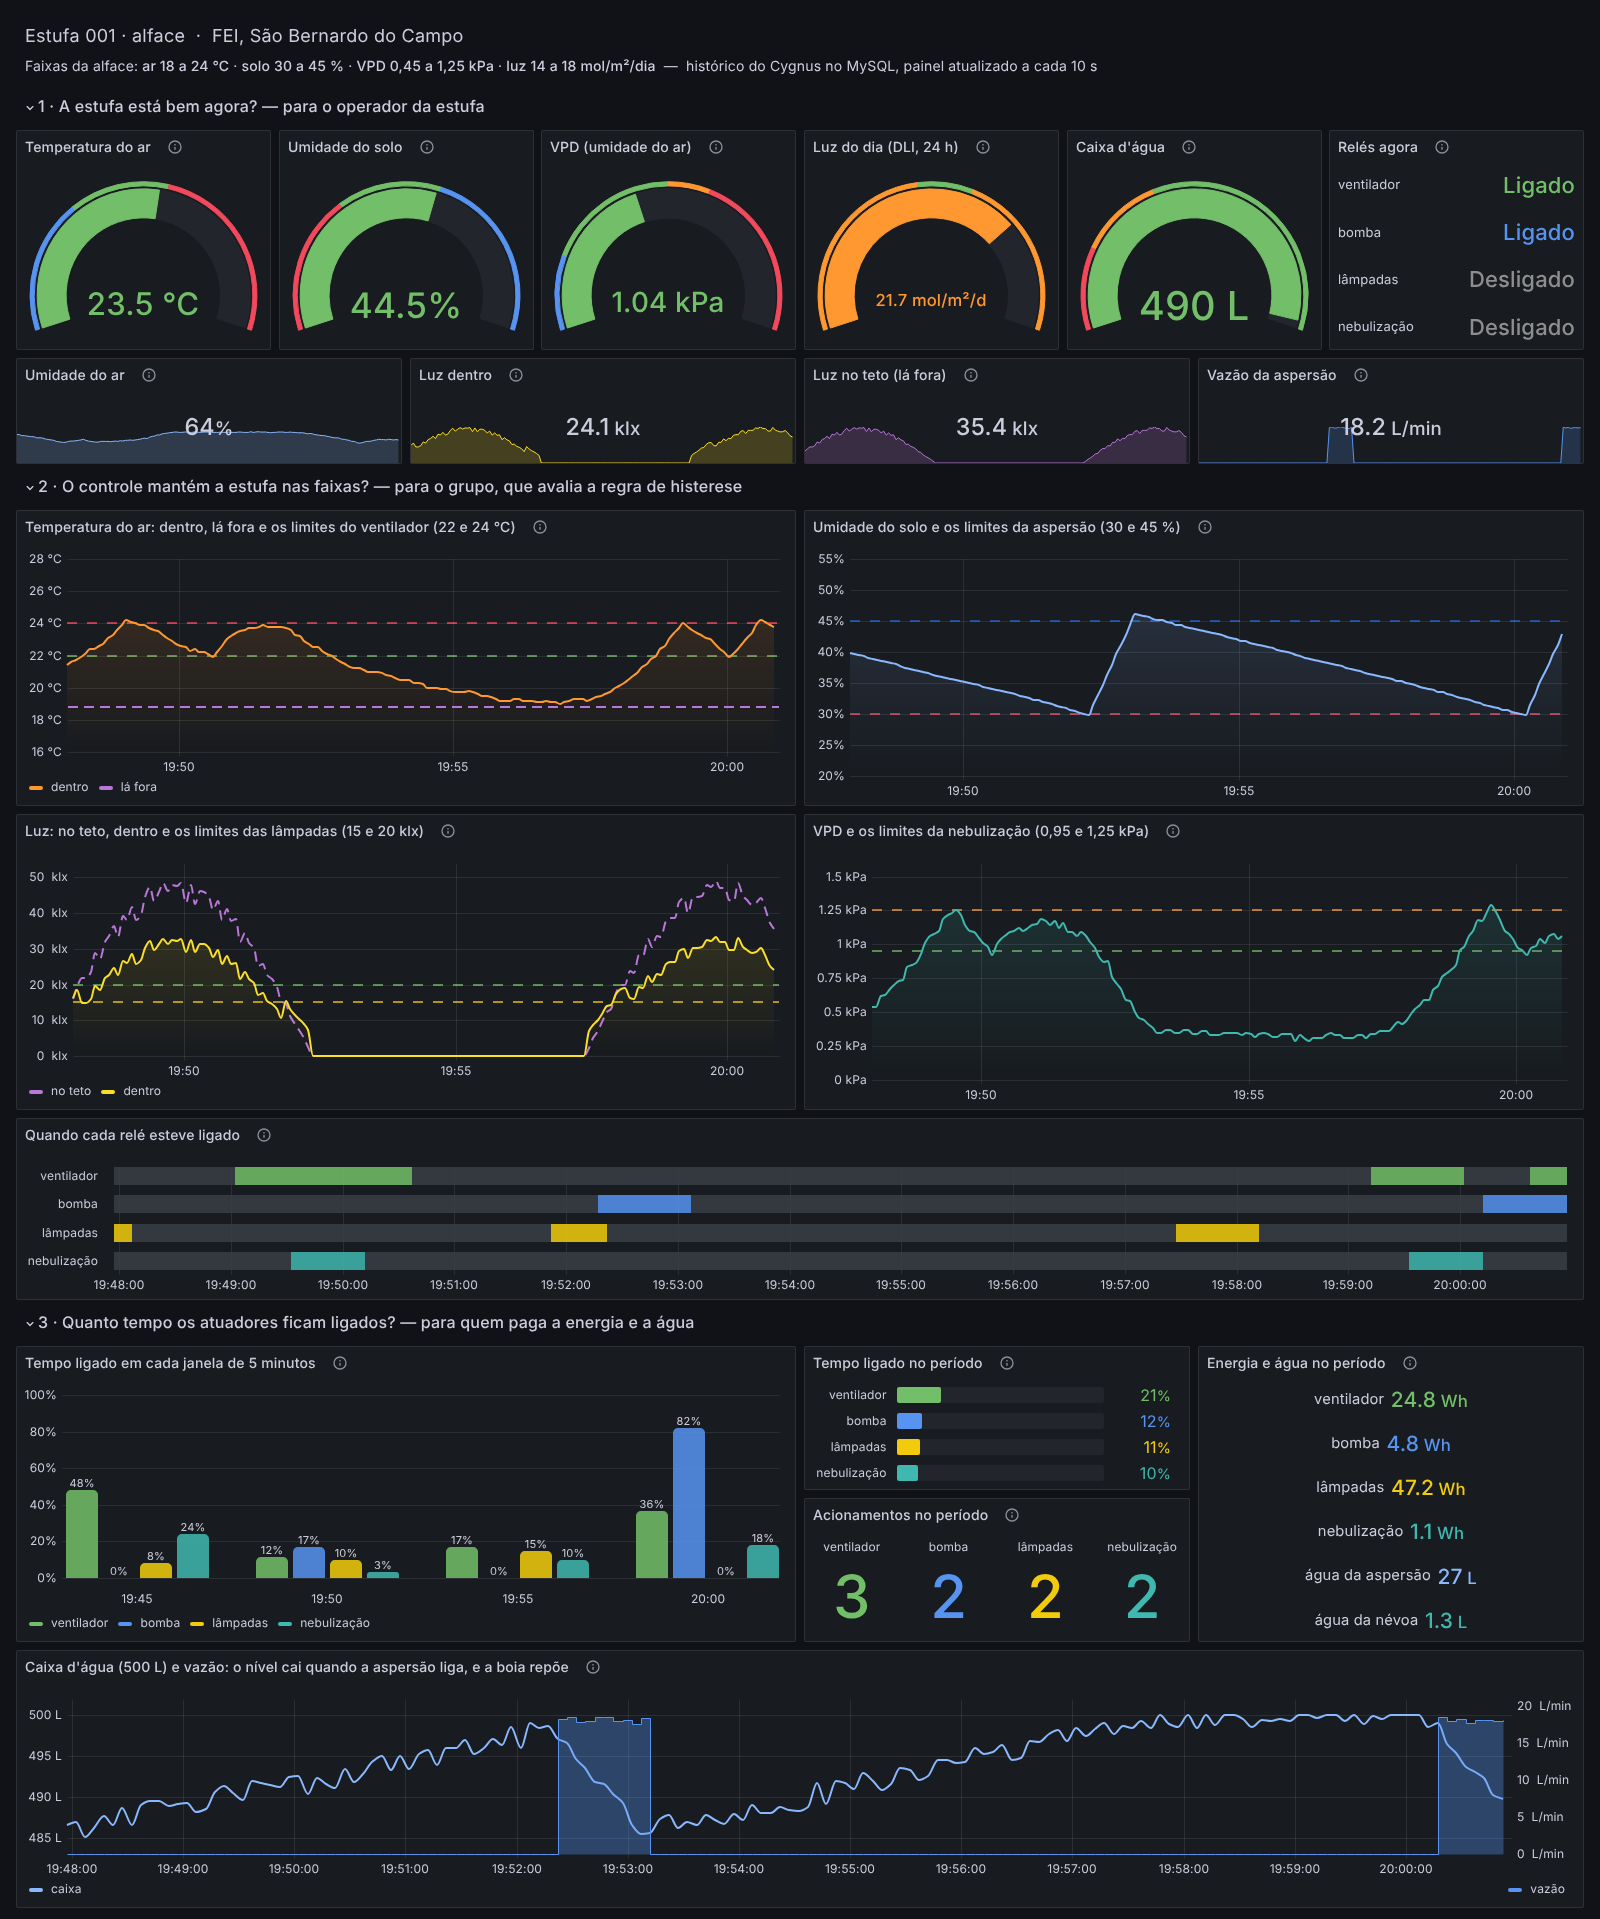
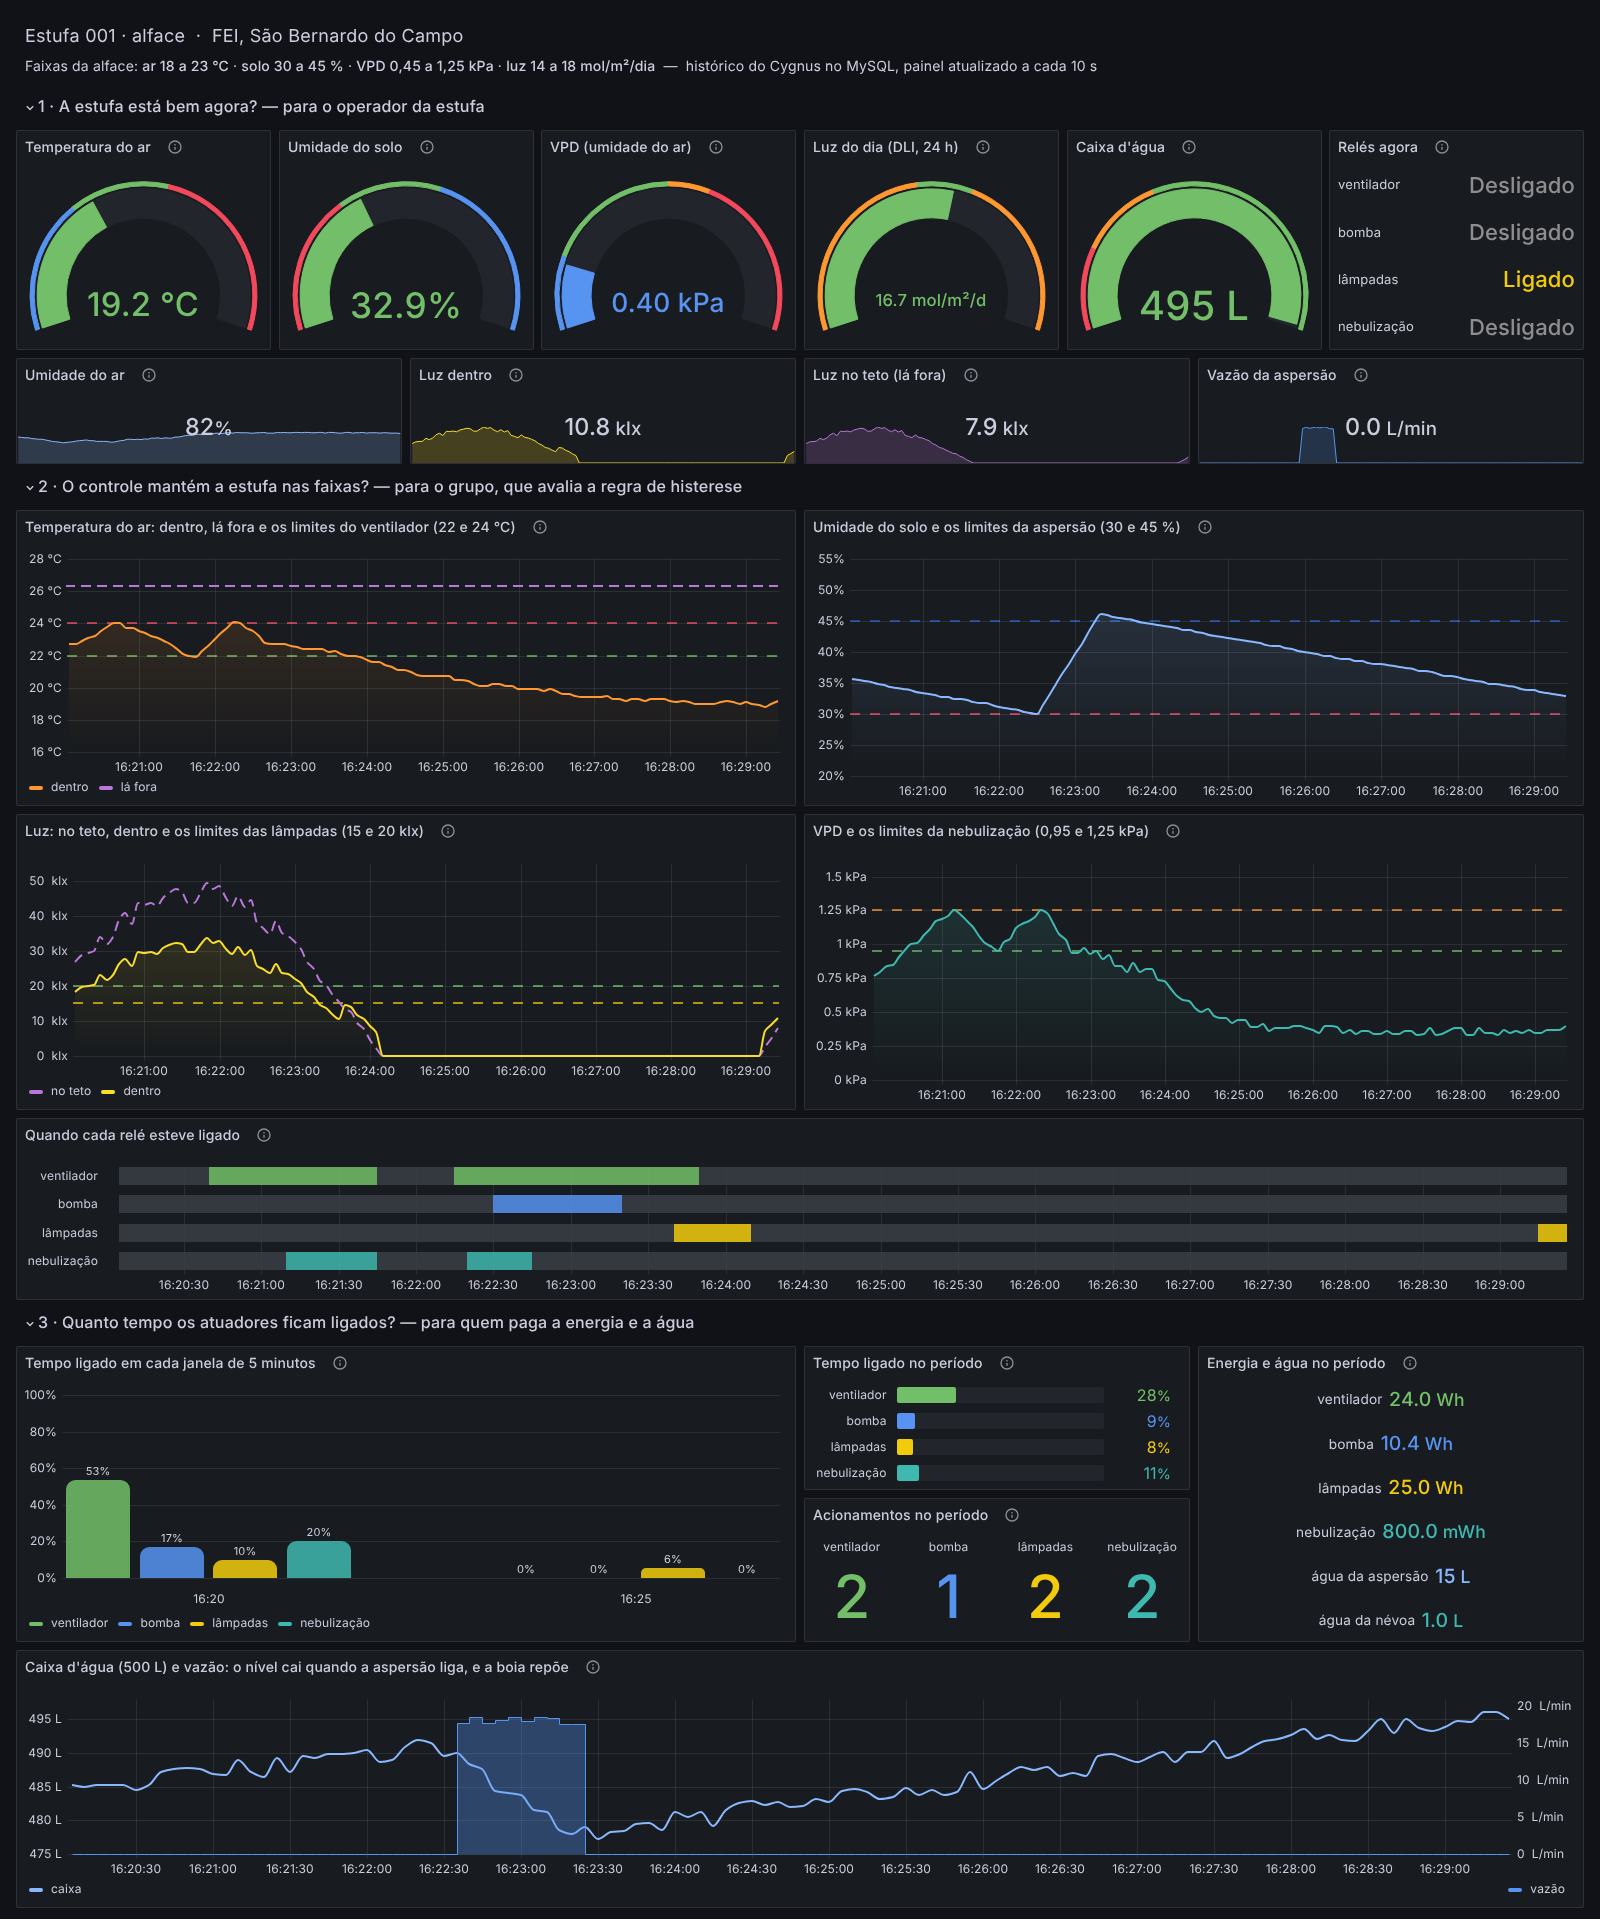
Painel: faixa do ar da alface no cabeçalho é 18 a 23 °C
O cabeçalho usava o limite de ligar o exaustor (24 °C) como topo da faixa.
Nova captura do painel.

Claude-Session: https://claude.ai/code/session_01LcUjeG24MKjCyVgtT6mDnc

diff --git a/estufa/grafana/gerar_painel.py b/estufa/grafana/gerar_painel.py
@@ -38,6 +38,7 @@ CAIXA_RETOMA = 150                                    # L: e libera daqui para c
 RESERVA = 0.4                                         # fração da caixa: laranja abaixo de 40 %
 DT = 5                       # s entre amostras (INTERVALO da ESP32): cada amostra ON vale 5 s ligado
 FRIO_ALFACE = 18             # °C, limite inferior da faixa da alface (18 a 23 °C)
+QUENTE_ALFACE = 23           # °C, limite superior da faixa da alface
 DLI_MIN, DLI_MAX = 14, 18    # mol/m²/dia para alface
 VPD = (0.45, 1.25, 1.5)      # kPa: úmido demais | faixa | atenção | estresse
 LUX_PARA_PPFD = 0.0185       # µmol/m²/s por lx, luz do sol
@@ -300,7 +301,7 @@ painel.append({
     "gridPos": {"x": 0, "y": 0, "w": 24, "h": 2},
     "options": {"mode": "markdown", "content":
                 f"#### Estufa 001 · alface &nbsp;·&nbsp; FEI, São Bernardo do Campo\n"
-                f"Faixas da alface: **ar {FRIO_ALFACE} a {LIGA_VENT} °C** · **solo {LIGA_BOMBA} a {DESLIGA_BOMBA} %** · "
+                f"Faixas da alface: **ar {FRIO_ALFACE} a {QUENTE_ALFACE} °C** · **solo {LIGA_BOMBA} a {DESLIGA_BOMBA} %** · "
                 f"**VPD {br(VPD[0])} a {br(VPD[1])} kPa** · **luz {DLI_MIN} a {DLI_MAX} mol/m²/dia** &nbsp;—&nbsp; "
                 f"histórico do Cygnus no MySQL, painel atualizado a cada 10 s"}})
 
